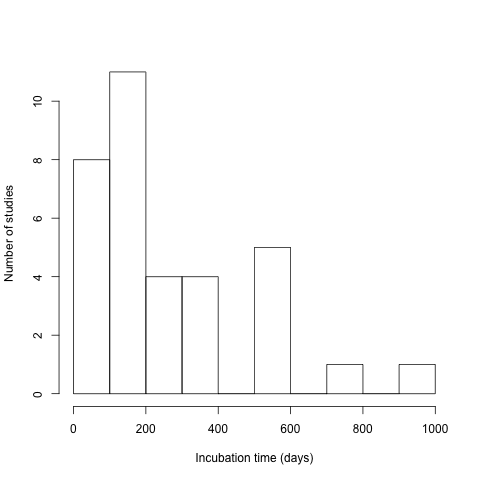
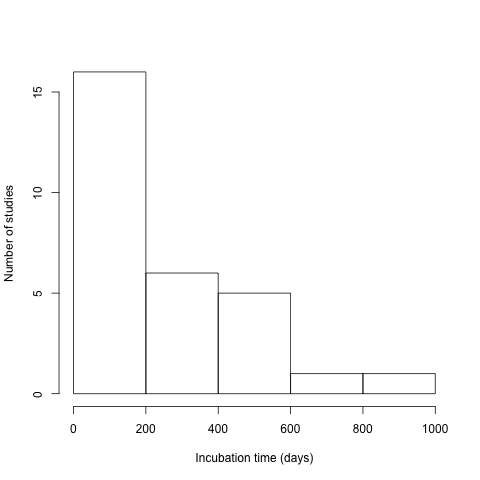
Two new functions to extract coordinates and incubation times. Updated website

diff --git a/docs/references.md b/docs/references.md
@@ -4,13 +4,12 @@ title: References
 ---
  
 ## Studies within SIDB 
-Currently, there are 36 entries in SIDB, which are from the following publications:
+Currently, there are 30 entries in SIDB, which are from the following publications:
  
 *  Andrews, J. A., Matamala, R., Westover, K. M., & Schlesinger, W. H. (2000). Temperature effects on the diversity of soil heterotrophs and the δ13C of soil-respired CO2. Soil Biology and Biochemistry, 32(5), 699–706. doi:10.1016/s0038-0717(99)00206-0
 *  Arevalo, C. B. M., Chang, S. X., Bhatti, J. S., & Sidders, D. (2012). Mineralization Potential and Temperature Sensitivity of Soil Organic Carbon under Different Land Uses in the Parkland Region of Alberta, Canada. Soil Science Society of America Journal, 76(1), 241. doi:10.2136/sssaj2011.0126
 *  Barrett, J. E., Virginia, R. A., Parsons, A. N., & Wall, D. H. (2006). Soil carbon turnover in the McMurdo Dry Valleys, Antarctica. Soil Biology and Biochemistry, 38(10), 3065–3082. doi:10.1016/j.soilbio.2006.03.025
 *  BRADFORD, M. A., WATTS, B. W., & DAVIES, C. A. (2010). Thermal adaptation of heterotrophic soil respiration in laboratory microcosms. Global Change Biology, 16(5), 1576–1588. doi:10.1111/j.1365-2486.2009.02040.x
-*  Chen, X., Tang, J., Jiang, L., Li, B., Chen, J., & Fang, C. (2010). Evaluating the impacts of incubation procedures on estimated Q10 values of soil respiration. Soil Biology and Biochemistry, 42(12), 2282–2288. doi:10.1016/j.soilbio.2010.08.030
 *  CONANT, R. T., DRIJBER, R. A., HADDIX, M. L., PARTON, W. J., PAUL, E. A., PLANTE, A. F., … STEINWEG, J. M. (2008). Sensitivity of organic matter decomposition to warming varies with its quality. Global Change Biology, 14(4), 868–877. doi:10.1111/j.1365-2486.2008.01541.x
 *  Conant, R. T., Steinweg, J. M., Haddix, M. L., Paul, E. A., Plante, A. F., & Six, J. (2008). EXPERIMENTAL WARMING SHOWS THAT DECOMPOSITION TEMPERATURE SENSITIVITY INCREASES WITH SOIL ORGANIC MATTER RECALCITRANCE. Ecology, 89(9), 2384–2391. doi:10.1890/08-0137.1
 *  Craine, J. M., Fierer, N., & McLauchlan, K. K. (2010). Widespread coupling between the rate and temperature sensitivity of organic matter decay. Nature Geoscience, 3(12), 854–857. doi:10.1038/ngeo1009
@@ -18,12 +17,8 @@ Currently, there are 36 entries in SIDB, which are from the following publicatio
 *  CUSACK, D. F., TORN, M. S., McDOWELL, W. H., & SILVER, W. L. (2010). The response of heterotrophic activity and carbon cycling to nitrogen additions and warming in two tropical soils. Global Change Biology. doi:10.1111/j.1365-2486.2009.02131.x
 *  Dalias, P., Anderson, J. M., Bottner, P., & Couteaux, M.-M. (2001). Temperature responses of carbon mineralization in conifer forest soils from different regional climates incubated under standard laboratory conditions. Global Change Biology, 7(2), 181–192. doi:10.1046/j.1365-2486.2001.00386.x
 *  Fang, C., Smith, P., Moncrieff, J. B., & Smith, J. U. (2005). Similar response of labile and resistant soil organic matter pools to changes in temperature. Nature, 433(7021), 57–59. doi:10.1038/nature03138
-*  FISSORE, C., GIARDINA, C. P., SWANSTON, C. W., KING, G. M., & KOLKA, R. K. (2009). Variable temperature sensitivity of soil organic carbon in North American forests. Global Change Biology, 15(9), 2295–2310. doi:10.1111/j.1365-2486.2009.01903.x
 *  GILLABEL, J., CEBRIAN-LOPEZ, B., SIX, J., & MERCKX, R. (2010). Experimental evidence for the attenuating effect of SOM protection on temperature sensitivity of SOM decomposition. Global Change Biology, 16(10), 2789–2798. doi:10.1111/j.1365-2486.2009.02132.x
-*  Grisi, B., Grace, C., Brookes, P. C., Benedetti, A., & Dell’abate, M. T. (1998). Temperature effects on organic matter and microbial biomass dynamics in temperate and tropical soils. Soil Biology and Biochemistry, 30(10-11), 1309–1315. doi:10.1016/s0038-0717(98)00016-9
 *  Haddix, M. L., Plante, A. F., Conant, R. T., Six, J., Steinweg, J. M., Magrini-Bair, K., … Paul, E. A. (2011). The Role of Soil Characteristics on Temperature Sensitivity of Soil Organic Matter. Soil Science Society of America Journal, 75(1), 56. doi:10.2136/sssaj2010.0118
-*  Hartley, I. P., Hopkins, D. W., Garnett, M. H., Sommerkorn, M., & Wookey, P. A. (2008). Soil microbial respiration in arctic soil does not acclimate to temperature. Ecology Letters, 11(10), 1092–1100. doi:10.1111/j.1461-0248.2008.01223.x
-*  Hartley, I. P., & Ineson, P. (2008). Substrate quality and the temperature sensitivity of soil organic matter decomposition. Soil Biology and Biochemistry, 40(7), 1567–1574. doi:10.1016/j.soilbio.2008.01.007
 *  Hopkins, D. W., Sparrow, A. D., Elberling, B., Gregorich, E. G., Novis, P. M., Greenfield, L. G., & Tilston, E. L. (2006). Carbon, nitrogen and temperature controls on microbial activity in soils from an Antarctic dry valley. Soil Biology and Biochemistry, 38(10), 3130–3140. doi:10.1016/j.soilbio.2006.01.012
 *  Jenkins, M. E., & Adams, M. A. (2011). Respiratory quotients and Q10 of soil respiration in sub-alpine Australia reflect influences of vegetation types. Soil Biology and Biochemistry, 43(6), 1266–1274. doi:10.1016/j.soilbio.2011.02.017
 *  Lavoie, M., Mack, M. C., & Schuur, E. A. G. (2011). Effects of elevated nitrogen and temperature on carbon and nitrogen dynamics in Alaskan arctic and boreal soils. Journal of Geophysical Research, 116(G3). doi:10.1029/2010jg001629
@@ -32,11 +27,10 @@ Currently, there are 36 entries in SIDB, which are from the following publicatio
 *  Niklińska, M., Maryański, M., & Laskowski, R. (1999). Biogeochemistry, 44(3), 239–257. doi:10.1023/a:1006049204600
 *  Reichstein, M., Bednorz, F., Broll, G., & Kätterer, T. (2000). Temperature dependence of carbon mineralisation: conclusions from a long-term incubation of subalpine soil samples. Soil Biology and Biochemistry, 32(7), 947–958. doi:10.1016/s0038-0717(00)00002-x
 *  Rey, A., Pegoraro, E., & Jarvis, P. G. (2008). Carbon mineralization rates at different soil depths across a network of European forest sites (FORCAST). European Journal of Soil Science, 59(6), 1049–1062. doi:10.1111/j.1365-2389.2008.01065.x
-*  REY, A., & JARVIS, P. (2006). Modelling the effect of temperature on carbon mineralization rates across a network of European forest sites (FORCAST). Global Change Biology, 12(10), 1894–1908. doi:10.1111/j.1365-2486.2006.01230.x
 *  Sierra, C. A., Malghani, S., & Loescher, H. W. (2016). Interactions among temperature, moisture, and oxygenconcentrations in controlling decomposition rates. Biogeosciences Discussions, 1–11. doi:10.5194/bg-2016-474
 *  Song, M., Jiang, J., Cao, G., & Xu, X. (2010). Effects of temperature, glucose and inorganic nitrogen inputs on carbon mineralization in a Tibetan alpine meadow soil. European Journal of Soil Biology, 46(6), 375–380. doi:10.1016/j.ejsobi.2010.09.003
 *  Stewart, C. E., Paustian, K., Conant, R. T., Plante, A. F., & Six, J. (2008). Soil carbon saturation: Evaluation and corroboration by long-term incubations. Soil Biology and Biochemistry, 40(7), 1741–1750. doi:10.1016/j.soilbio.2008.02.014
-*  TOWNSEND, A. R., VITOUSEK, P. M., DESMARAIS, D. J., & THARPE, A. (1997). Biogeochemistry, 38(1), 1–17. doi:10.1023/a:1017942918708
+*  NULL
 *  Wang, X., Li, X., Hu, Y., Lv, J., Sun, J., Li, Z., & Wu, Z. (2010). Effect of temperature and moisture on soil organic carbon mineralization of predominantly permafrost peatland in the Great Hing’an Mountains, Northeastern China. Journal of Environmental Sciences, 22(7), 1057–1066. doi:10.1016/s1001-0742(09)60217-5
 *  Wickland, K. P., & Neff, J. C. (2007). Decomposition of soil organic matter from boreal black spruce forest: environmental and chemical controls. Biogeochemistry, 87(1), 29–47. doi:10.1007/s10533-007-9166-3
 *  Winkler, J. P., Cherry, R. S., & Schlesinger, W. H. (1996). The Q10 relationship of microbial respiration in a temperate forest soil. Soil Biology and Biochemistry, 28(8), 1067–1072. doi:10.1016/0038-0717(96)00076-4
